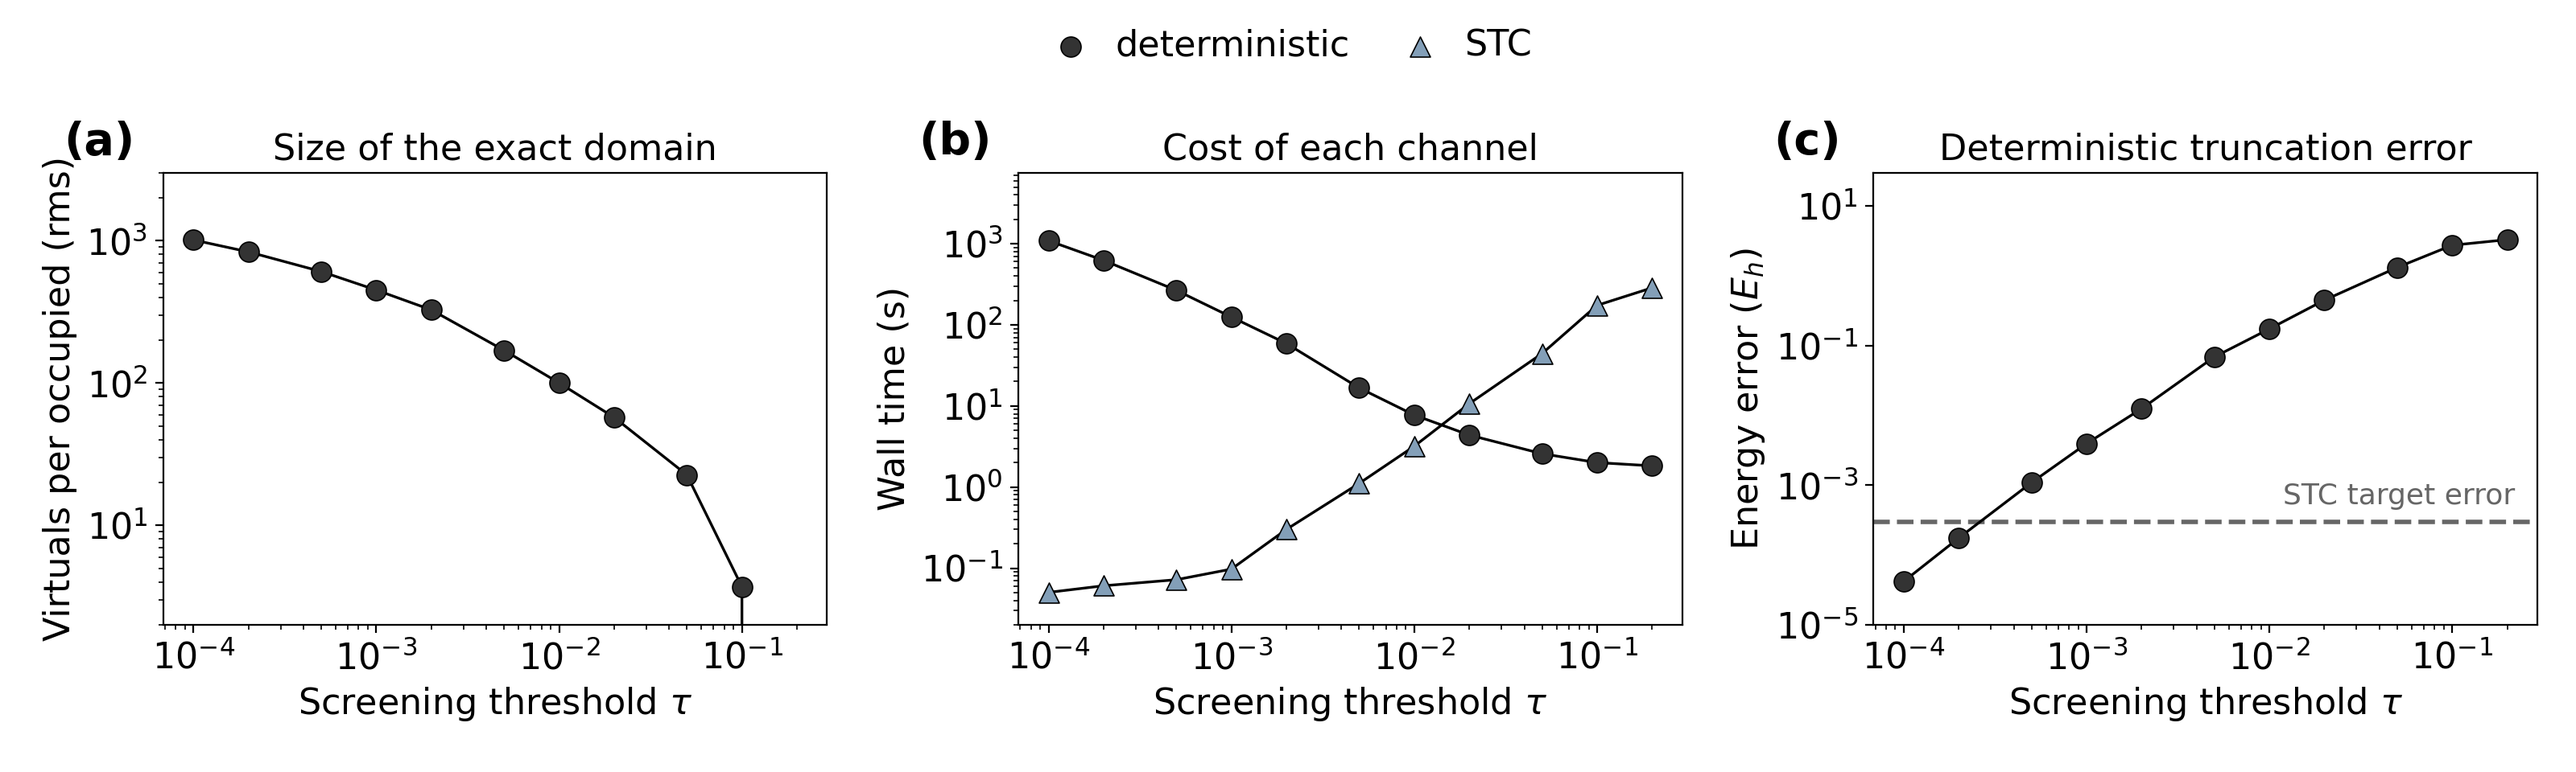
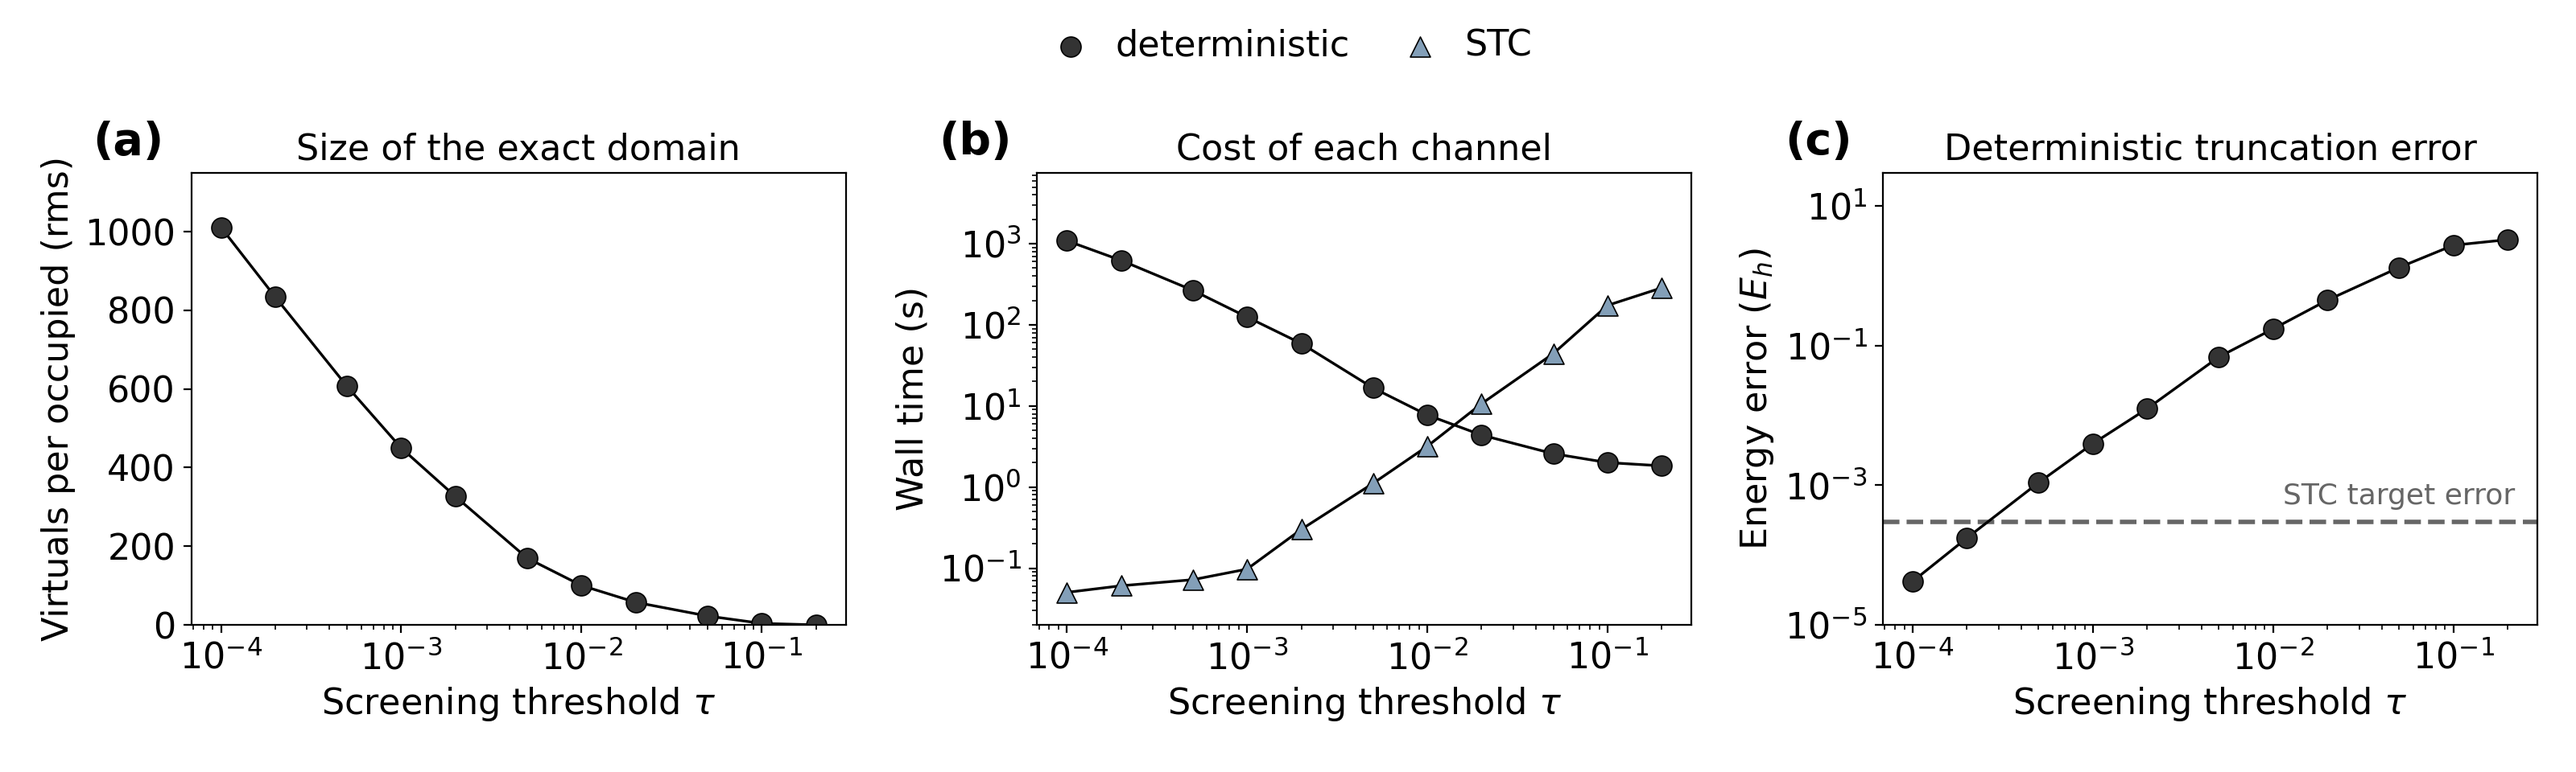
plot the size of the exact domain on a linear axis

diff --git a/figures_and_results/main_plot_threshold.py b/figures_and_results/main_plot_threshold.py
@@ -30,8 +30,7 @@ def plot(x, y, color, marker, label):
 plt.sca(axes[0])
 plot(screen, c['nvir_per_occ_rms'], config.color_exact, 'o', None)
 plt.xscale('log')
-plt.yscale('log')
-plt.ylim(2, 3e3)
+plt.ylim(0, 1150)
 plt.xlabel('Screening threshold $\\tau$')
 plt.ylabel('Virtuals per occupied (rms)')
 plt.title('Size of the exact domain')
